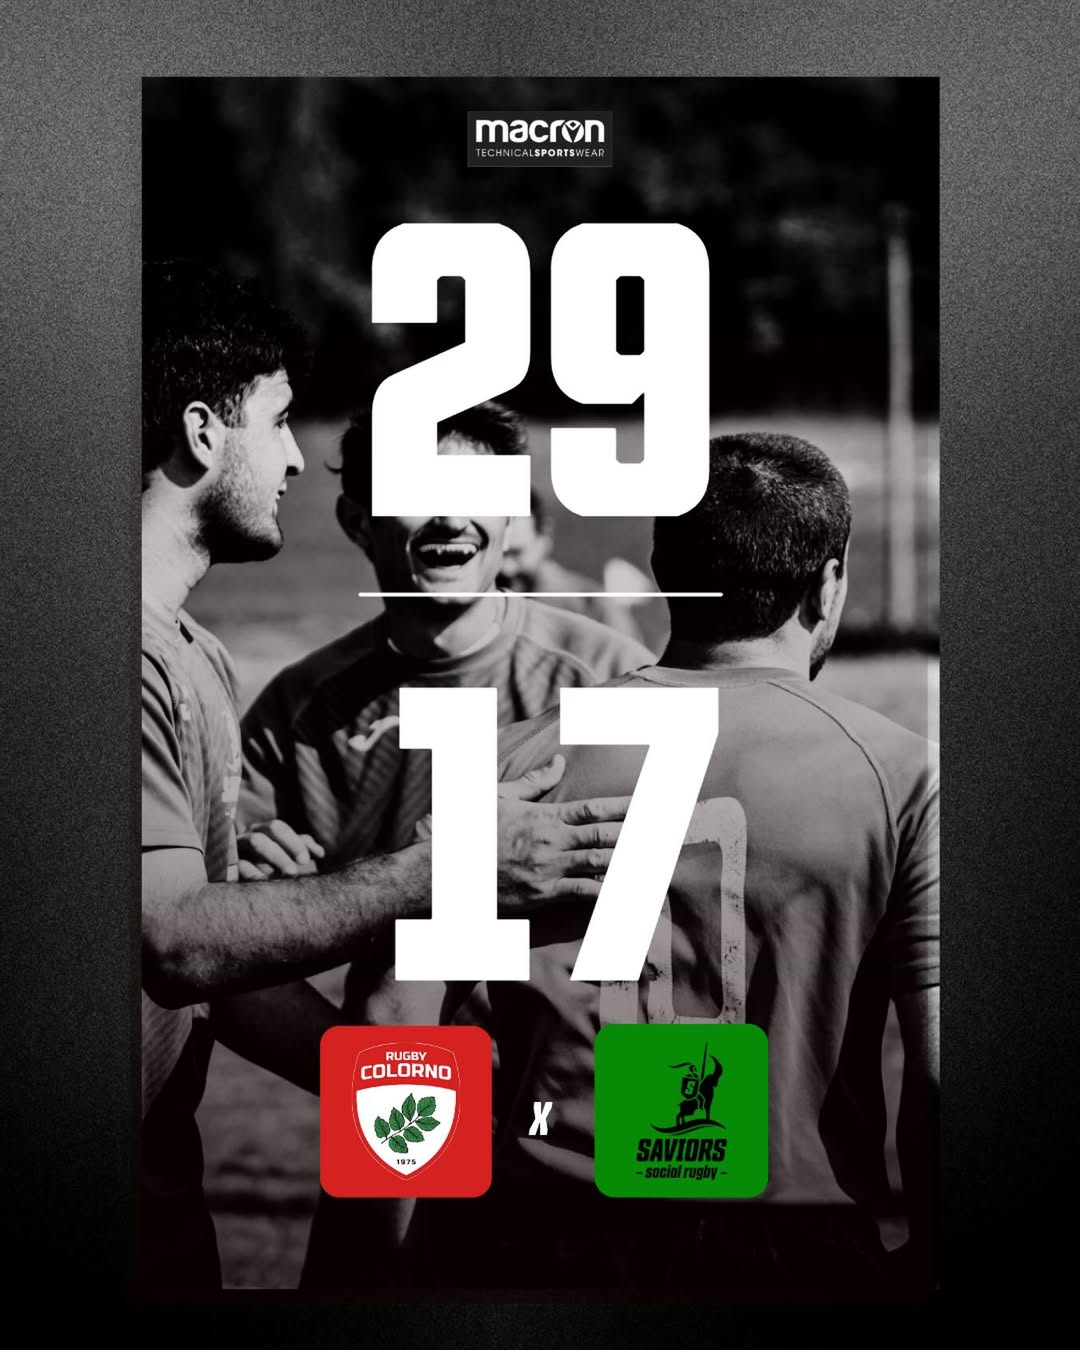
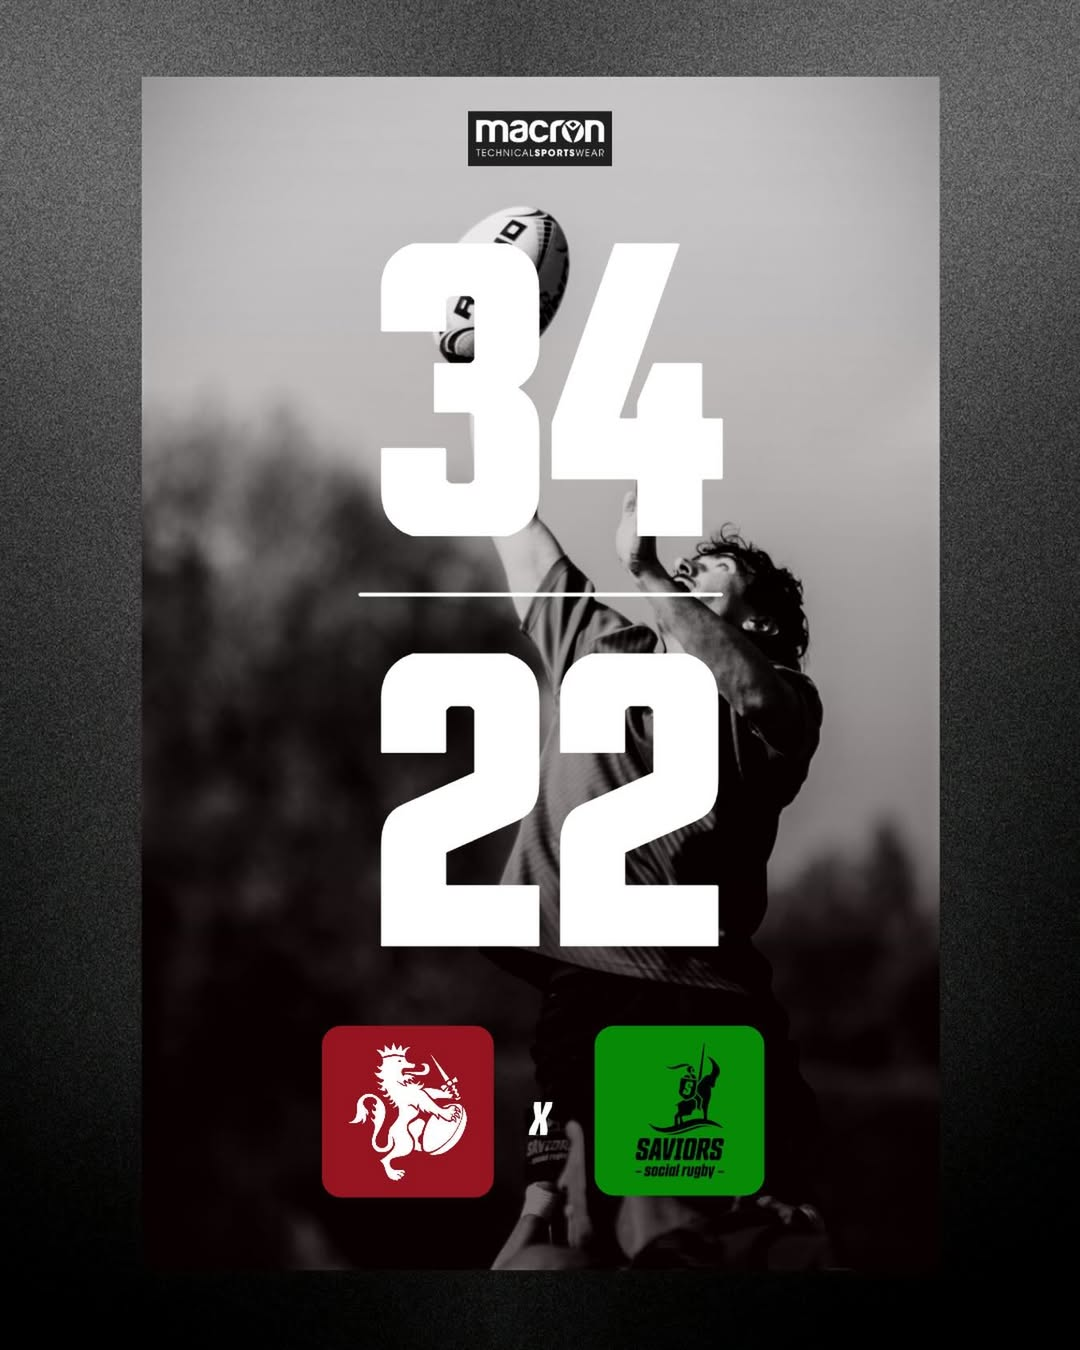
update

diff --git a/content/posts/championship/20252026/index.md b/content/posts/championship/20252026/index.md
@@ -1,6 +1,6 @@
 ---
 title: Campionato FIR Serie C Regionale 2025/2026
-date: "2025-10-05"
+date: "2026-05-28"
 showDate: false
 sharingLinks:
   - facebook
@@ -21,14 +21,14 @@ weight: 3
 
 |     | Team                         | Punti | G/V/P/S   | Pt. fatti | Pt. subiti | Mt. fatte | Diff Pt. |
 | --- | ---------------------------- | ----- | --------- | --------- | ---------- | --------- | -------- |
-| 1   | Modena Rugby 1965 nr. 2      | 53    | 13/11/0/2 | 421       | 170        | 61        | 251      |
-| 2   | Ravenna Rugby FC             | 48    | 13/9/0/4  | 473       | 231        | 71        | 260      |
-| 3   | Rugby Guastalla 2008         | 38    | 13/6/1/6  | 374       | 282        | 57        | 92       |
-| 4   | **Saviors Social Rugby ASD** | 37    | 13/8/0/5  | 348       | 224        | 53        | 124      |
-| 5   | Romagna RFC                  | 33    | 13/6/1/6  | 295       | 238        | 42        | 57       |
-| 6   | Faenza Rugby                 | 32    | 13/7/0/6  | 332       | 267        | 50        | 65       |
-| 7   | Rugby Colorno 1975           | 20    | 13/4/0/9  | 280       | 326        | 44        | -46      |
-| 8   | Giallo Dozza Bologna         | -4    | 13/0/0/13 | 33        | 836        | 5         | -803     |
+| 1   | Modena Rugby 1965 nr. 2      | 58    | 14/12/0/2 | 483       | 194        | 71        | 289      |
+| 2   | Ravenna Rugby FC             | 53    | 14/10/0/4 | 499       | 227        | 75        | 272      |
+| 3   | Rugby Guastalla 2008         | 43    | 14/7/1/6  | 437       | 282        | 68        | 155      |
+| 4   | **Saviors Social Rugby ASD** | 38    | 14/8/0/6  | 370       | 258        | 57        | 112      |
+| 6   | Faenza Rugby                 | 37    | 14/8/0/6  | 366       | 289        | 54        | 77       |
+| 5   | Romagna RFC                  | 33    | 14/6/1/7  | 319       | 300        | 45        | 19       |
+| 7   | Rugby Colorno 1975           | 20    | 14/4/0/10 | 294       | 352        | 46        | -58      |
+| 8   | Giallo Dozza Bologna         | -4    | 14/0/0/14 | 33        | 899        | 5         | -866     |
 
 ## Calendario
 

diff --git a/content/posts/last-match/index.md b/content/posts/last-match/index.md
@@ -1,5 +1,5 @@
 ---
-title: "Ultimo Match:<br/>Colorno vs Saviors Social Rugby (27 - 19)"
+title: "Ultimo Match:<br/>Faenza Rugby vs Saviors Social Rugby (34 - 22)"
 date: "2025-12-08"
 sharingLinks:
   - facebook
@@ -17,8 +17,8 @@ hide: true
 
 ![](./featured.jpg)
 
-| Giornata   | Data       | Orario | Casa               | Ospiti                       | Indirizzo                   |
-| ---------- | ---------- | ------ | ------------------ | ---------------------------- | --------------------------- |
-| 6ᵃ Ritorno | 19/04/2026 | 15:30  | Rugby Colorno 1975 | **Saviors Social Rugby ASD** | Stadio Gino Maini - Colorno |
+| Giornata   | Data       | Orario | Casa         | Ospiti                       | Indirizzo                               |
+| ---------- | ---------- | ------ | ------------ | ---------------------------- | --------------------------------------- |
+| 7ᵃ Ritorno | 03/05/2026 | 15:30  | Faenza Rugby | **Saviors Social Rugby ASD** | Via Viara, Castel San Pietro Terme (BO) |
 
 ![](./team.jpg)

diff --git a/content/posts/palmares/index.md b/content/posts/palmares/index.md
@@ -35,3 +35,5 @@ weight: 5
 | 2021/2022                                          | 3° posto                                   |
 | 2022/2023                                          | 1° posto                                   |
 | [2023/2024](/posts/archive/championship/20232024/) | 1° posto                                   |
+| [2024/2025](/posts/archive/championship/20242025/) | 1° posto                                   |
+| [2025/2026](/posts/championship/20252026/)         | 4° posto                                   |

diff --git a/content/posts/next-match/index.md b/content/posts/next-match/index.md
@@ -1,4 +1,4 @@
----
+<!-- ---
 title: "Prossimo Match:<br/>Faenza Rugby vs Saviors Social Rugby"
 date: "2025-12-08"
 sharingLinks:
@@ -21,4 +21,4 @@ hide: true
 | ---------- | ---------- | ------ | ------------ | ---------------------------- | --------------------------------------- |
 | 7ᵃ Ritorno | 03/05/2026 | 15:30  | Faenza Rugby | **Saviors Social Rugby ASD** | Via Viara, Castel San Pietro Terme (BO) |
 
-![](./featured.jpg)
+![](./featured.jpg) -->
